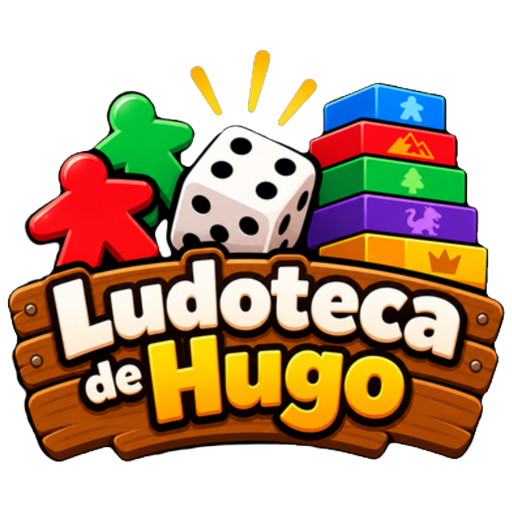
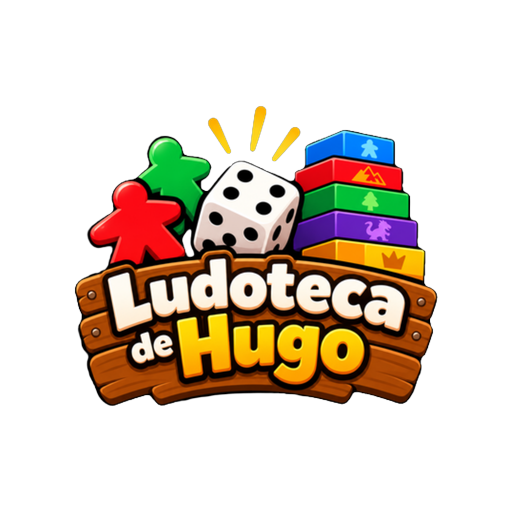
Add files via upload

diff --git a/index.html b/index.html
@@ -352,7 +352,7 @@ body.v20-mode>.catalog-status,body.v20-mode>main{display:none!important}
 .v20-player input[type="text"],.v20-player input[type="number"]{background:#091627;border:1px solid #29425f;color:white;border-radius:9px;padding:9px;width:100%}
 .v20-actions2{display:flex;justify-content:space-between;gap:10px;margin-top:16px}
 .v20-hidden{display:none!important}
-.v20-banner{display:flex;align-items:center;justify-content:space-between;gap:12px;background:linear-gradient(135deg,#0e2a48,#12213a);border:1px solid #2a5f93;border-radius:16px;padding:16px;margin:16px 0}
+.v20-banner{display:flex;flex-direction:column;align-items:center;justify-content:center;gap:18px;background:linear-gradient(135deg,#0e2a48,#12213a);border:1px solid #2a5f93;border-radius:20px;padding:22px 18px;margin:16px 0;text-align:center}.v20-banner-title{font-size:24px;font-weight:900;line-height:1.15}.v20-banner-actions{width:100%;display:grid;grid-template-columns:1fr 1fr;gap:10px}.v20-banner-actions .v20-btn{min-height:64px;font-size:18px}@media(max-width:480px){.v20-banner{padding:20px 14px}.v20-banner-title{font-size:22px}.v20-banner-actions{gap:8px}.v20-banner-actions .v20-btn{font-size:17px;padding:10px 8px}}
 .v20-mini{font-size:12px;color:var(--v20-muted)}
 @media(max-width:780px){.v20-grid4,.v20-grid3{grid-template-columns:repeat(2,1fr)}.v20-formgrid{grid-template-columns:1fr}.v20-player{grid-template-columns:1fr 90px}.v20-player .winner{grid-column:1/-1}.v20-hero{font-size:29px}.v20-shell{padding-left:12px;padding-right:12px}}
 </style>
@@ -382,9 +382,99 @@ body.v20-mode #v8MoreBtn{
 }
 </style>
 
+
+<style id="catalogo-premium-fix">
+.brand-home{
+  border:0;
+  background:transparent;
+  padding:0;
+  margin:0;
+  cursor:pointer;
+  display:flex;
+  align-items:center;
+  justify-content:center;
+}
+.brand-home:active{transform:scale(.97)}
+.v20-catalog-card{
+  position:relative;
+  overflow:hidden;
+  margin:22px 0;
+  min-height:240px;
+  border-radius:24px;
+  border:1px solid #316fc4;
+  background:
+    radial-gradient(circle at 85% 25%,rgba(87,79,255,.35),transparent 28%),
+    radial-gradient(circle at 72% 80%,rgba(0,145,255,.20),transparent 34%),
+    linear-gradient(135deg,#0b2545 0%,#0b1830 56%,#121a3e 100%);
+  box-shadow:0 14px 34px rgba(0,0,0,.28), inset 0 0 35px rgba(30,127,255,.06);
+  padding:24px;
+}
+.v20-catalog-card::after{
+  content:"🎲";
+  position:absolute;
+  right:26px;
+  bottom:18px;
+  font-size:86px;
+  transform:rotate(-10deg);
+  filter:drop-shadow(0 10px 18px rgba(0,0,0,.35));
+  opacity:.95;
+}
+.v20-catalog-eyebrow{
+  display:inline-flex;
+  align-items:center;
+  gap:7px;
+  padding:6px 11px;
+  border-radius:999px;
+  background:linear-gradient(180deg,#6c4b00,#3b2700);
+  border:1px solid #ffbd32;
+  color:#ffe49a;
+  font-size:12px;
+  font-weight:900;
+  letter-spacing:.06em;
+  text-transform:uppercase;
+}
+.v20-catalog-title{
+  max-width:68%;
+  margin-top:16px;
+  font-size:30px;
+  line-height:1.06;
+  font-weight:950;
+}
+.v20-catalog-title span{color:#ffb51f}
+.v20-catalog-copy{
+  max-width:58%;
+  margin-top:12px;
+  color:#b8c9df;
+  font-size:15px;
+  line-height:1.45;
+}
+.v20-catalog-cta{
+  margin-top:18px;
+  min-width:230px;
+  min-height:52px;
+  padding:0 18px;
+  border:1px solid #5fd4ff;
+  border-radius:999px;
+  background:linear-gradient(180deg,#168cff,#116ee4);
+  color:white;
+  font-weight:900;
+  font-size:17px;
+  box-shadow:0 0 0 3px rgba(22,129,255,.15),0 8px 20px rgba(22,129,255,.28);
+  cursor:pointer;
+}
+.v20-catalog-cta:active{transform:scale(.98)}
+@media(max-width:560px){
+  .v20-catalog-card{min-height:228px;padding:20px}
+  .v20-catalog-title{max-width:72%;font-size:26px}
+  .v20-catalog-copy{max-width:66%;font-size:14px}
+  .v20-catalog-card::after{font-size:74px;right:18px;bottom:18px}
+  .v20-catalog-cta{min-width:210px;font-size:16px}
+}
+</style>
+
 </head><body class="dark">
 <header><div class="top"><div class="brand">
-<img class="brand-logo" src="covers/cover-01-e9db0b4d76f1.png" alt="Ludoteca de Hugo">
+<button class="brand-home" id="classicHome" type="button" aria-label="Volver al inicio"><img class="brand-logo" src="logo-ludoteca-hugo-v2.png" alt="Ludoteca de Hugo"></button>
 
 </div><button class="iconbtn" id="theme">◐</button></div>
 <div class="controls"><input class="search" id="q" placeholder="Buscar juego…"><select id="players"><option value="">Jugadores</option><option>1</option><option>2</option><option>3</option><option>4</option><option>5</option><option>6</option><option>7</option><option>8</option><option value="9">8+</option></select></div>
@@ -1025,7 +1115,54 @@ body.dark #v8MoreBtn,body.dark #v8MoreMenu{background:#252a2f;color:#fff}
 })();
 </script>
 
-\n<script id="v11-smart-recommendations">\n(()=>{\n const btn=document.querySelector("#find"); if(!btn||btn.dataset.v11==="1")return; btn.dataset.v11="1";\n const DAY=86400000, expansionIds=new Set(["J027","J028"]);\n const read=(k,d)=>{try{return JSON.parse(localStorage.getItem(k)||JSON.stringify(d))}catch(e){return d}};\n const diffRank={"Muy ligera":1,"Ligera":2,"Ligera-media":3,"Media":4};\n const experienceMatch=(g,x)=>{\n   if(!x)return 1; const text=(g.style+" "+g.mechanics).toLowerCase();\n   const map={\n    "Party":["party","velocidad","reflejos","humor","música","creatividad","interacción directa","eliminación"],\n    "Familiar":["familiar","memoria","cartas","dados","patrones","colección"],\n    "Estrategia":["estrategia","gestión","motor","subastas","abstracto","espacial","selección simultánea"],\n    "Cooperativo":["cooperativo","solitario","tiempo real"],\n    "Deducción":["deducción","roles ocultos","movimiento oculto","memoria"],\n    "Destreza":["destreza","equilibrio","apilamiento","extracción"],\n    "Duelo":["duelo","selección simultánea"],\n    "Abstracto":["abstracto","patrones","espacial","colocación"]\n   };\n   if(g.style===x)return 3; return (map[x]||[]).some(k=>text.includes(k))?2:0;\n };\n btn.addEventListener("click",ev=>{\n   ev.stopImmediatePropagation(); ev.preventDefault();\n   const p=+document.querySelector("#rp").value||0,t=+document.querySelector("#rt").value||0,d=document.querySelector("#rd").value,x=document.querySelector("#rx").value,includeExp=document.querySelector("#rex").checked;\n   const last=read("ludoteca-played-v1",{}), counts=read("ludoteca-play-count-v1",{}), now=Date.now();\n   let ranked=games.filter(g=>(includeExp||!expansionIds.has(g.id))&&supports(g,p)&&(!t||t===999||minutes(g)<=t)).map(g=>{\n     let score=0,reasons=[];\n     if(p){score+=5;reasons.push(p===9?"apto para grupos grandes":`funciona con ${p} jugador${p===1?"":"es"}`)}\n     if(t&&t!==999){const m=minutes(g);if(m<=t){score+=4;reasons.push(`entra en ${t} min`)}}\n     const xm=experienceMatch(g,x); if(x){score+=xm*3;if(xm===3)reasons.push(`encaja en ${x.toLowerCase()}`)} else score+=1;\n     if(d){const delta=Math.abs((diffRank[g.difficulty]||2)-(diffRank[d]||2));if(delta===0){score+=4;reasons.push(`dificultad ${d.toLowerCase()}`)}else if(delta===1)score+=1;}else score+=1;\n     if(!expansionIds.has(g.id))score+=1;\n     const lp=last[g.id]||0, n=counts[g.id]||0, age=lp?now-lp:Infinity;\n     if(!lp){score+=3;reasons.push("todavía no jugado")}\n     else if(age>=60*DAY){score+=2;reasons.push("hace tiempo que no sale")}\n     else if(age<7*DAY){score-=8;reasons.push("jugado recientemente")}\n     else if(age<30*DAY){score-=3;}\n     score+=Math.max(0,2-Math.min(2,n));\n     return {g,score,reasons};\n   }).filter(o=>(!x||experienceMatch(o.g,x)>0)&&(!d||Math.abs((diffRank[o.g.difficulty]||2)-(diffRank[d]||2))<=1))\n     .sort((a,b)=>b.score-a.score||((counts[a.g.id]||0)-(counts[b.g.id]||0))||minutes(a.g)-minutes(b.g)||a.g.title.localeCompare(b.g.title)).slice(0,3);\n   const box=document.querySelector("#recoResults");\n   if(!ranked.length){box.innerHTML='<div class="recoempty">No encontré una coincidencia suficientemente buena. Prueba ampliando el tiempo o dejando libre un criterio.</div>';return}\n   box.innerHTML='<div class="recolabel">Mis recomendaciones <small style="display:block;font-weight:500;margin-top:3px">Se priorizan juegos poco jugados y se penalizan los jugados en los últimos 7 días.</small></div><div class="recoresults">'+ranked.map((o,i)=>`<button class="recopick" data-id="${o.g.id}"><img src="${o.g.img}"><span><b>${i+1}. ${o.g.title}</b><small>${o.g.players} jugadores · ${o.g.duration} · ${o.g.difficulty}</small><small>${o.reasons.slice(0,3).join(" · ")||o.g.style}</small></span></button>`).join("")+'</div>';\n   box.querySelectorAll(".recopick").forEach(b=>b.onclick=()=>{document.querySelector("#reco").close();setTimeout(()=>openGame(games.find(g=>g.id===b.dataset.id)),0)});\n },true);\n})();\n</script><script id="v12-integrity-patch">
+
+<script id="v11-smart-recommendations">
+(()=>{
+ const btn=document.querySelector("#find"); if(!btn||btn.dataset.v11==="1")return; btn.dataset.v11="1";
+ const DAY=86400000, expansionIds=new Set(["J027","J028"]);
+ const read=(k,d)=>{try{return JSON.parse(localStorage.getItem(k)||JSON.stringify(d))}catch(e){return d}};
+ const diffRank={"Muy ligera":1,"Ligera":2,"Ligera-media":3,"Media":4};
+ const experienceMatch=(g,x)=>{
+   if(!x)return 1; const text=(g.style+" "+g.mechanics).toLowerCase();
+   const map={
+    "Party":["party","velocidad","reflejos","humor","música","creatividad","interacción directa","eliminación"],
+    "Familiar":["familiar","memoria","cartas","dados","patrones","colección"],
+    "Estrategia":["estrategia","gestión","motor","subastas","abstracto","espacial","selección simultánea"],
+    "Cooperativo":["cooperativo","solitario","tiempo real"],
+    "Deducción":["deducción","roles ocultos","movimiento oculto","memoria"],
+    "Destreza":["destreza","equilibrio","apilamiento","extracción"],
+    "Duelo":["duelo","selección simultánea"],
+    "Abstracto":["abstracto","patrones","espacial","colocación"]
+   };
+   if(g.style===x)return 3; return (map[x]||[]).some(k=>text.includes(k))?2:0;
+ };
+ btn.addEventListener("click",ev=>{
+   ev.stopImmediatePropagation(); ev.preventDefault();
+   const p=+document.querySelector("#rp").value||0,t=+document.querySelector("#rt").value||0,d=document.querySelector("#rd").value,x=document.querySelector("#rx").value,includeExp=document.querySelector("#rex").checked;
+   const last=read("ludoteca-played-v1",{}), counts=read("ludoteca-play-count-v1",{}), now=Date.now();
+   let ranked=games.filter(g=>(includeExp||!expansionIds.has(g.id))&&supports(g,p)&&(!t||t===999||minutes(g)<=t)).map(g=>{
+     let score=0,reasons=[];
+     if(p){score+=5;reasons.push(p===9?"apto para grupos grandes":`funciona con ${p} jugador${p===1?"":"es"}`)}
+     if(t&&t!==999){const m=minutes(g);if(m<=t){score+=4;reasons.push(`entra en ${t} min`)}}
+     const xm=experienceMatch(g,x); if(x){score+=xm*3;if(xm===3)reasons.push(`encaja en ${x.toLowerCase()}`)} else score+=1;
+     if(d){const delta=Math.abs((diffRank[g.difficulty]||2)-(diffRank[d]||2));if(delta===0){score+=4;reasons.push(`dificultad ${d.toLowerCase()}`)}else if(delta===1)score+=1;}else score+=1;
+     if(!expansionIds.has(g.id))score+=1;
+     const lp=last[g.id]||0, n=counts[g.id]||0, age=lp?now-lp:Infinity;
+     if(!lp){score+=3;reasons.push("todavía no jugado")}
+     else if(age>=60*DAY){score+=2;reasons.push("hace tiempo que no sale")}
+     else if(age<7*DAY){score-=8;reasons.push("jugado recientemente")}
+     else if(age<30*DAY){score-=3;}
+     score+=Math.max(0,2-Math.min(2,n));
+     return {g,score,reasons};
+   }).filter(o=>(!x||experienceMatch(o.g,x)>0)&&(!d||Math.abs((diffRank[o.g.difficulty]||2)-(diffRank[d]||2))<=1))
+     .sort((a,b)=>b.score-a.score||((counts[a.g.id]||0)-(counts[b.g.id]||0))||minutes(a.g)-minutes(b.g)||a.g.title.localeCompare(b.g.title)).slice(0,3);
+   const box=document.querySelector("#recoResults");
+   if(!ranked.length){box.innerHTML='<div class="recoempty">No encontré una coincidencia suficientemente buena. Prueba ampliando el tiempo o dejando libre un criterio.</div>';return}
+   box.innerHTML='<div class="recolabel">Mis recomendaciones <small style="display:block;font-weight:500;margin-top:3px">Se priorizan juegos poco jugados y se penalizan los jugados en los últimos 7 días.</small></div><div class="recoresults">'+ranked.map((o,i)=>`<button class="recopick" data-id="${o.g.id}"><img src="${o.g.img}"><span><b>${i+1}. ${o.g.title}</b><small>${o.g.players} jugadores · ${o.g.duration} · ${o.g.difficulty}</small><small>${o.reasons.slice(0,3).join(" · ")||o.g.style}</small></span></button>`).join("")+'</div>';
+   box.querySelectorAll(".recopick").forEach(b=>b.onclick=()=>{document.querySelector("#reco").close();setTimeout(()=>openGame(games.find(g=>g.id===b.dataset.id)),0)});
+ },true);
+})();
+</script><script id="v12-integrity-patch">
 (()=>{
   // Normalización de casos especiales. El conteo de partidas lo gestiona un único módulo.
   const playerRules={J011:[2,4]};
@@ -1046,7 +1183,8 @@ body.dark #v8MoreBtn,body.dark #v8MoreMenu{background:#252a2f;color:#fff}
     return m.length?Math.max(...m):999;
   };
 })();
-</script>\n
+</script>
+
 <style id="blue-theme-final">
 /* Paleta final aprobada: azul oscuro, sin amarillo */
 body.dark{
@@ -1273,6 +1411,13 @@ const app=document.createElement('div');app.id='v20App';app.innerHTML=`
    <div class="v20-stat gold"><div class="n" id="v20WinRate">—</div><div class="l">Tasa de victorias</div><div class="s" id="v20WinsSub">Sin datos aún</div></div>
   </div>
   <button class="v20-btn v20-widebtn" data-goto="stats">▥ Ver estadísticas</button>
+  <div class="v20-catalog-card">
+    <div class="v20-catalog-eyebrow">📖 Catálogo clásico</div>
+    <div class="v20-catalog-title">Explorá el catálogo de <span>juegos de mesa</span></div>
+    <div class="v20-catalog-copy">Descubrí y buscá todos los juegos de tu colección.</div>
+    <button class="v20-catalog-cta" id="v20CatalogCard">Explorar catálogo&nbsp;&nbsp;›</button>
+  </div>
+
 
   <div class="v20-section">
    <div class="v20-section-head"><h2>Actividad reciente</h2><span class="v20-mini">Últimas 5</span></div>
@@ -1282,7 +1427,7 @@ const app=document.createElement('div');app.id='v20App';app.innerHTML=`
    <div class="v20-section-head"><h2>Tus juegos más jugados</h2><span class="v20-mini">Top 5</span></div>
    <div class="v20-list" id="v20TopGames"></div>
   </div>
-  <div class="v20-banner"><div><b>¿No sabés qué jugar?</b><div class="v20-mini">Tus funciones clásicas siguen disponibles.</div></div><div style="display:flex;gap:8px"><button class="v20-btn alt" id="v20What">¿Qué jugamos?</button><button class="v20-btn" id="v20Random">🎲 Sorpréndeme</button></div></div>
+  <div class="v20-banner"><div class="v20-banner-title">¿No sabés qué jugar?</div><div class="v20-banner-actions"><button class="v20-btn alt" id="v20What">¿Qué jugamos?</button><button class="v20-btn" id="v20Random">🎲 Sorpréndeme</button></div></div>
  </section>
 
  <section class="v20-page" data-page="stats">
@@ -1406,7 +1551,20 @@ function goto(page){
  refresh();
 }
 document.querySelectorAll('[data-nav],[data-goto]').forEach(b=>b.onclick=()=>goto(b.dataset.nav||b.dataset.goto));
-v20Legacy.onclick=()=>{app.classList.remove('active');document.body.classList.remove('v20-mode')};
+function openClassicCatalog(){
+ app.classList.remove('active');
+ document.body.classList.remove('v20-mode');
+ window.scrollTo({top:0,behavior:'instant'});
+}
+function backToV20Home(){
+ document.body.classList.add('v20-mode');
+ app.classList.add('active');
+ goto('inicio');
+ window.scrollTo({top:0,behavior:'instant'});
+}
+v20Legacy.onclick=openClassicCatalog;
+document.querySelector('#v20CatalogCard').onclick=openClassicCatalog;
+document.querySelector('#classicHome').onclick=backToV20Home;
 v20Search.oninput=renderCollection;
 document.querySelectorAll('#v20CollectionTabs .v20-pill').forEach(b=>b.onclick=()=>{document.querySelectorAll('#v20CollectionTabs .v20-pill').forEach(x=>x.classList.remove('active'));b.classList.add('active');renderCollection()});
 v20AddPlayer.onclick=()=>{const n=prompt('Nombre del jugador habitual:');if(n&&!people.includes(n)){people.push(n);write(LS_PEOPLE,people);renderPeople()}};
@@ -1452,8 +1610,8 @@ v20Next.onclick=()=>{
  write(LS_PLAYS,plays);v20PlayModal.classList.remove('open');refresh();goto('inicio');
 };
 v20Plus.onclick=openPlay;
-v20What.onclick=()=>{app.classList.remove('active');document.body.classList.remove('v20-mode');setTimeout(()=>document.querySelector('#recommend')?.click(),50)};
-v20Random.onclick=()=>{app.classList.remove('active');document.body.classList.remove('v20-mode');setTimeout(()=>document.querySelector('#surprise')?.click(),50)};
+v20What.onclick=()=>{openClassicCatalog();setTimeout(()=>document.querySelector('#recommend')?.click(),50)};
+v20Random.onclick=()=>{openClassicCatalog();setTimeout(()=>document.querySelector('#surprise')?.click(),50)};
 
 // Start in V20 home.
 goto('inicio');
